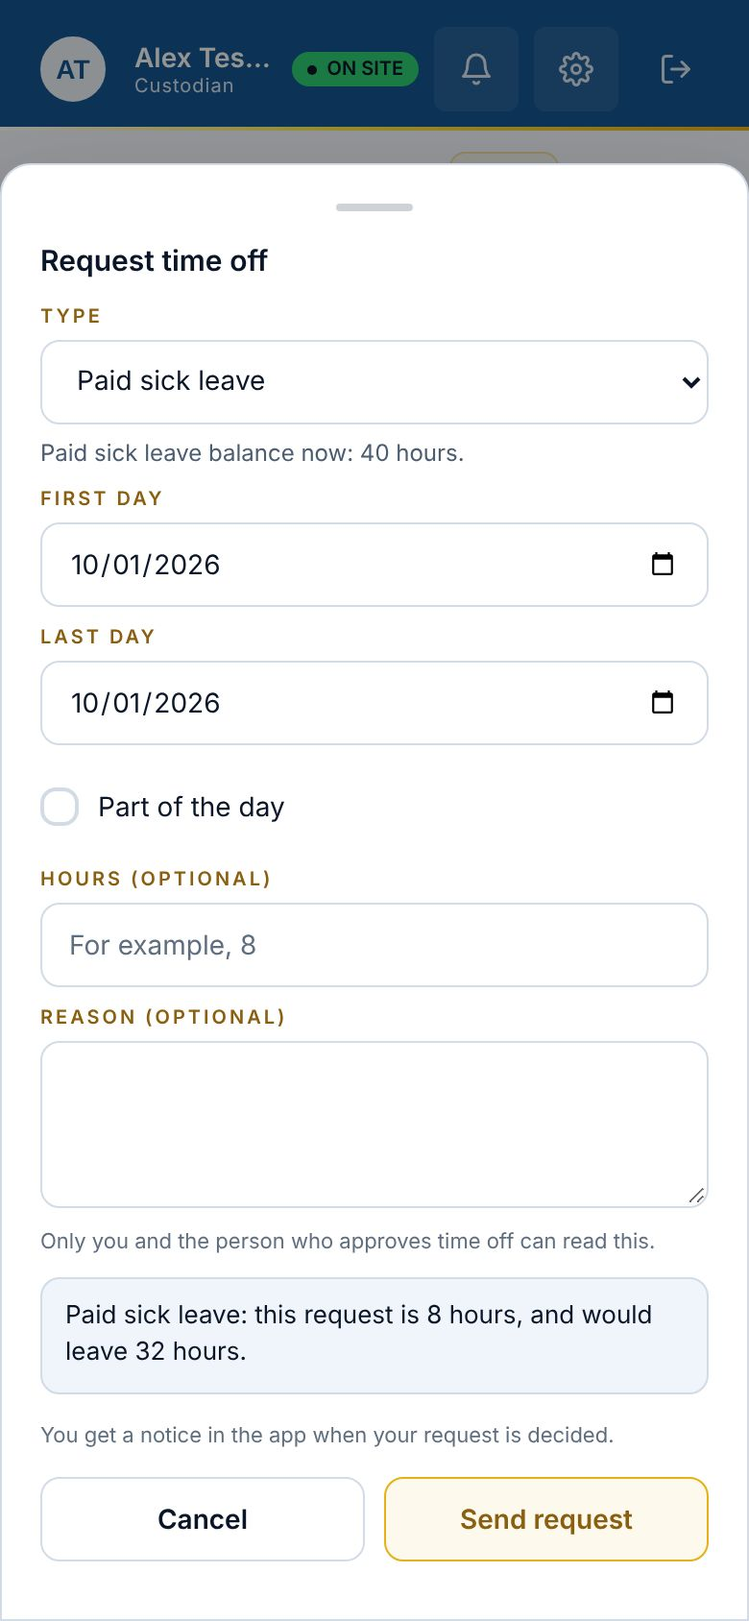
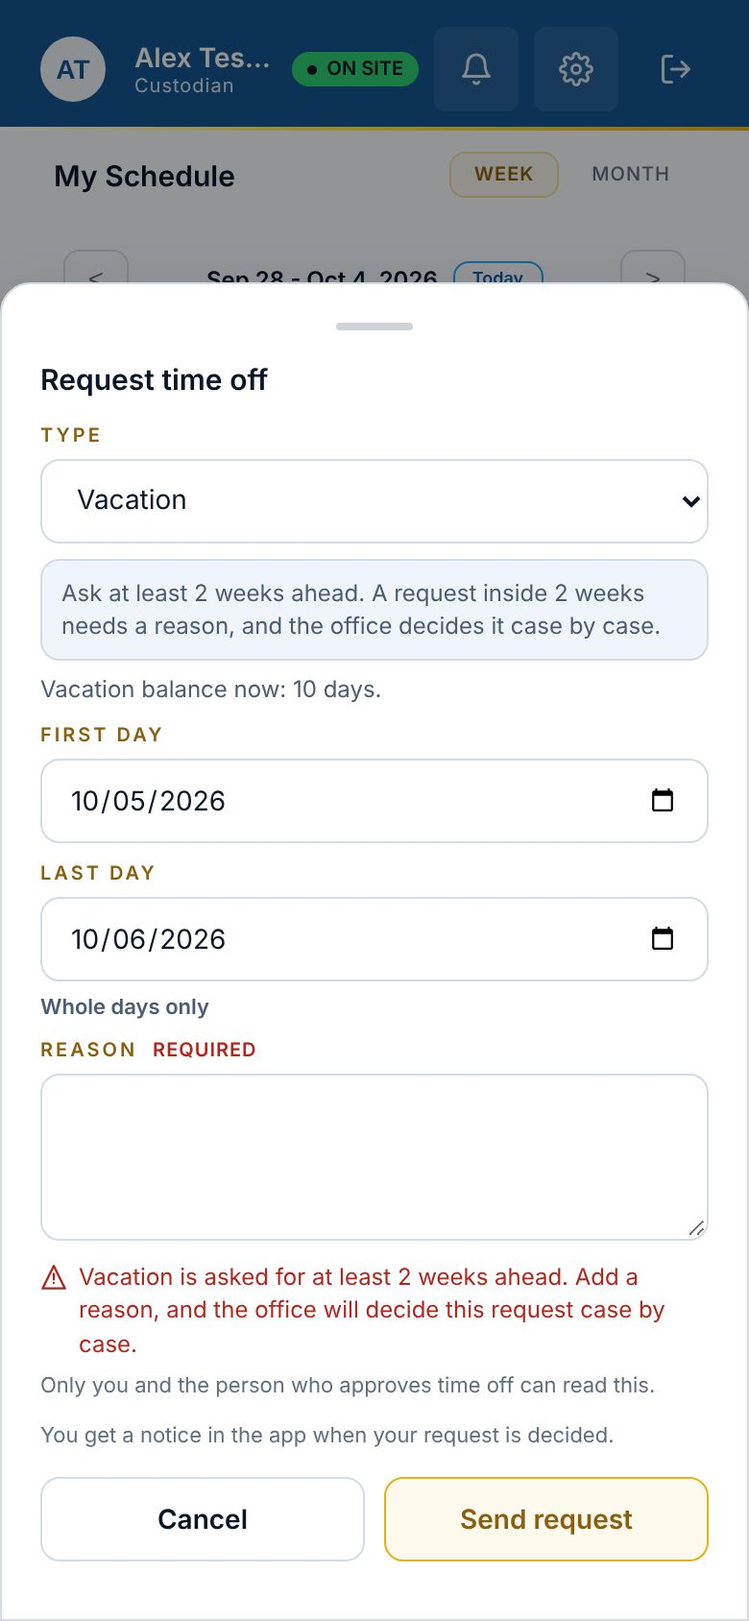
The time off guide entries (part 399, section 3)
Every time off entry in guide/APP-PORTAL.md rewritten to match this
round's screens and OCSA-HR-002 Part 8 as ocsa-api Round 15 (part 395)
holds it, each fact read from the API's code and the screen:

- Request time off (staff portal): the five types and who is offered
  each, whole days for vacation and personal, whole hours for sick, the
  notice for each (vacation 2 weeks, personal 48 hours, sick none and
  never refused for timing) and the reason inside the notice, nothing
  used before day 91, a paid holiday or a day off inside vacation not
  taken, the warnings that never stop a request, and that the office
  approves.
- See or cancel your time off (staff portal): requests of the old kinds
  read as they did, a request asked inside its notice, and a waiting
  request's days.
- See your leave balances (staff portal): who holds which balance, the
  handbook's rules for each, and the ADP line.

Each is Last checked 2026-11-17, with its pictures taken again in
English and Spanish (time-off-request, time-off-leave, time-off-mine,
time-off-cancel, leave-balances). The API's names and words the guide
bolds are in guide/check-allow.txt with their French from ocsa-api's
translation/api_words.csv.

Claude-Session: https://claude.ai/code/session_01NPM9dZ2CLGDhhZwCgeAEos

diff --git a/audit/shots.js b/audit/shots.js
@@ -291,6 +291,18 @@ async function formCard(s, en, es) {
   return s.mark("[data-shots-target]");
 }
 // One of the guide's forms, by its title in each language.
+// Part 399: the first and last day of a time off request, set the way
+// React hears them.
+const offDates = async (s, from, to) => {
+  await s.page.evaluate(([a, b]) => { const boxes = Array.from(document.querySelectorAll('div[style*="z-index: 200"] input[type="date"]')); const set = Object.getOwnPropertyDescriptor(window.HTMLInputElement.prototype, "value").set; [[a, 0], [b, 1]].forEach(([v, i]) => { if (!boxes[i]) return; set.call(boxes[i], v); boxes[i].dispatchEvent(new Event("input", { bubbles: true })); boxes[i].dispatchEvent(new Event("change", { bubbles: true })); }); }, [from, to]);
+  await s.pause(900);
+};
+// Part 399: a vacation asked inside its notice, waiting, and a PTO request
+// filed before part 395, approved. Invented.
+const OFF_SHOT_ROWS = () => [
+  timeOffRow({ id: "to-vac", leaveType: "vacation", leaveTypeLabel: "Vacation", status: "requested", startsOn: "2026-10-08", endsOn: "2026-10-09", insideNotice: true, reason: "A family visit" }),
+  timeOffRow({ id: "to-pto", leaveType: "pto", leaveTypeLabel: "PTO (paid time off)", status: "approved", startsOn: "2026-09-14", endsOn: "2026-09-15", hours: 16, decidedAt: "2026-09-10T15:00:00.000Z" }),
+];
 const guideForm = (name, entry, en, es) => ({ name, entry, o: { signedIn: true, stub: { guideForms: true } }, go: (s) => formCard(s, en, es) });
 
 // A field kit tile, on a supervisor's phone.
@@ -634,42 +646,69 @@ const SHOTS = [
       }
       return s.waitText(s.say("Submit Request"));
     } },
-  { name: "time-off-request", entry: E("Request time off"), o: { signedIn: true, stub: { pto: true } },
+  // Part 399 (API part 395): Vacation chosen for days inside its 2 weeks,
+  // so the form shows the notice, Whole days only, and Reason required
+  // with the API's words under it.
+  { name: "time-off-request", entry: E("Request time off"), o: { signedIn: true },
     go: async (s) => {
       if (!(await s.go("Schedule"))) return false;
       await s.pause(600);
       await s.tap(s.say("Request time off"));
-      if (!(await s.waitFor(() => !!document.querySelector('select option[value="pto"]')))) return false;
-      // Part 369: paid sick leave, so the balance shows under Type.
-      await s.page.selectOption('select:has(option[value="pto"])', "paid_sick");
-      return s.waitFor(() => !!document.querySelector("[data-leave-picked]"));
+      if (!(await s.waitFor(() => !!document.querySelector('select option[value="vacation"]')))) return false;
+      await s.page.selectOption('select:has(option[value="vacation"])', "vacation");
+      await offDates(s, "2026-10-05", "2026-10-06");
+      if (!(await s.waitFor(() => !!document.querySelector('[data-timeoff-error="reason"]')))) return false;
+      await s.page.evaluate(() => document.querySelector('[data-timeoff-unit="day"]').scrollIntoView({ block: "center" }));
+      await s.pause(300);
+      return true;
     } },
-  // Part 369: what the request would leave and the API's warning that it
-  // goes below zero; since part 373 on the form, before Send, from POST
-  // /api/time-off/preview.
-  { name: "time-off-leave", entry: E("Request time off"), o: { signedIn: true, stub: { leaveBalance: 32 } },
+  // Part 369: what the request would leave; since part 373 on the form,
+  // before Send, from POST /api/time-off/preview; since part 399 a
+  // vacation across Thanksgiving week, counted in days, the two paid
+  // holidays and the weekend marked as not taken.
+  { name: "time-off-leave", entry: E("Request time off"), o: { signedIn: true },
     go: async (s) => {
       if (!(await s.go("Schedule"))) return false;
       if (!(await s.waitFor(() => !!document.querySelector("[data-leave-balance]")))) return false;
       await s.tap(s.say("Request time off"));
-      if (!(await s.waitFor(() => !!document.querySelector('select option[value="paid_sick"]')))) return false;
-      await s.page.selectOption('select:has(option[value="paid_sick"])', "paid_sick");
-      await s.page.evaluate(() => { const boxes = Array.from(document.querySelectorAll('div[style*="z-index: 200"] input[type="date"]')); const set = Object.getOwnPropertyDescriptor(window.HTMLInputElement.prototype, "value").set; [["2026-10-05", 0], ["2026-10-09", 1]].forEach(([v, i]) => { if (!boxes[i]) return; set.call(boxes[i], v); boxes[i].dispatchEvent(new Event("input", { bubbles: true })); boxes[i].dispatchEvent(new Event("change", { bubbles: true })); }); });
-      if (!(await s.waitFor(() => !!document.querySelector('[data-leave-preview="1"] [data-leave-warning]')))) return false;
-      await s.page.evaluate(() => document.querySelector('[data-leave-preview="1"]').scrollIntoView({ block: "center" }));
+      if (!(await s.waitFor(() => !!document.querySelector('select option[value="vacation"]')))) return false;
+      await s.page.selectOption('select:has(option[value="vacation"])', "vacation");
+      await offDates(s, "2026-11-23", "2026-11-29");
+      if (!(await s.waitFor(() => !!document.querySelector('[data-leave-preview="1"] [data-leave-from="holiday"]')))) return false;
+      await s.page.evaluate(() => document.querySelector('[data-leave-preview="1"]').scrollIntoView({ block: "end" }));
       await s.pause(300);
       return true;
     } },
+  // Since part 399 a full-time person's three balances, two in days, and
+  // the ADP line under them.
   { name: "leave-balances", entry: E("See your leave balances"), o: { signedIn: true },
-    go: async (s) => { if (!(await s.go("Schedule"))) return false; if (!(await s.waitFor(() => !!document.querySelector('[data-leave-balance="paid_sick"]')))) return false; await s.show(s.say("My time off")); return true; } },
-  { name: "time-off-mine", entry: E("See or cancel your time off"), o: { signedIn: true, stub: { myTimeOff: [timeOffRow({ id: "to-one", status: "requested" })] } },
-    go: async (s) => { if (!(await s.go("Schedule"))) return false; if (!(await s.waitText(s.say("My time off")))) return false; await s.show(s.say("My time off")); return true; } },
-  { name: "time-off-cancel", entry: E("See or cancel your time off"), o: { signedIn: true, stub: { myTimeOff: [timeOffRow({ id: "to-one", status: "requested" })] } },
+    go: async (s) => {
+      if (!(await s.go("Schedule"))) return false;
+      if (!(await s.waitFor(() => !!document.querySelector("[data-leave-adp]")))) return false;
+      // The ADP line at the foot of the screen, clear of the bottom bar.
+      await s.page.evaluate(() => { document.querySelector("[data-leave-adp]").scrollIntoView({ block: "end" }); window.scrollBy(0, 130); });
+      await s.pause(400);
+      return true;
+    } },
+  // Since part 399 a vacation asked inside its notice beside a PTO
+  // request filed before part 395.
+  { name: "time-off-mine", entry: E("See or cancel your time off"), o: { signedIn: true, stub: { myTimeOff: OFF_SHOT_ROWS() } },
+    go: async (s) => {
+      if (!(await s.go("Schedule"))) return false;
+      if (!(await s.waitText(s.say("My time off")))) return false;
+      if (!(await s.waitFor(() => !!document.querySelector('[data-timeoff-inside="row"]') && !!document.querySelector("[data-leave-adp]")))) return false;
+      // The foot of the list, so the ADP line and both requests show.
+      await s.page.evaluate(() => window.scrollTo(0, document.scrollingElement.scrollHeight));
+      await s.pause(400);
+      return true;
+    } },
+  { name: "time-off-cancel", entry: E("See or cancel your time off"), o: { signedIn: true, stub: { myTimeOff: OFF_SHOT_ROWS() } },
     go: async (s) => {
       if (!(await s.go("Schedule"))) return false;
       if (!(await s.waitText(s.say("My time off")))) return false;
       await s.page.evaluate(([heading]) => { const h = Array.from(document.querySelectorAll(".sp-content div")).find(d => d.textContent.trim() === heading); const b = h && h.parentElement.querySelector("button"); if (b) b.click(); }, [s.say("My time off")]);
       await s.pause(900);
+      if (!(await s.waitFor(() => !!document.querySelector('[data-timeoff-inside="sheet"]')))) return false;
       return s.waitText(s.say("Cancel request"));
     } },
   { name: "pickup-available", entry: E("Pick up an open shift"), o: { signedIn: true },

diff --git a/guide/APP-PORTAL.md b/guide/APP-PORTAL.md
@@ -510,29 +510,33 @@ Last checked: 2026-11-10
 Who can do this: anyone signed in
 1. Tap **Schedule** (**Horario**) (**Planning**) on the bottom bar.
 2. Tap **Request time off** (**Solicitar tiempo libre**) (**Demander un congé**).
-3. Under **Type** (**Tipo**) (**Type**), choose the kind of time off, such as **PTO (paid time off)** (**PTO (tiempo libre pagado)**) (**PTO (congé payé)**) where the office offers it. For a kind your policy keeps a balance of, such as paid sick leave, the line under it says how much you have, as **{kind} balance now: {hours}.** (**Saldo de {kind} ahora: {hours}.**) (**Solde de {kind} maintenant : {hours}.**), and **You can use it from {date}.** (**Lo puede usar a partir del {date}.**) (**Vous pouvez l'utiliser à partir du {date}.**) while you are still in the waiting period after your hire date.
-4. Set **First day** (**Primer día**) (**Premier jour**) and **Last day** (**Último día**) (**Dernier jour**). For part of one day, leave both days the same, turn on **Part of the day** (**Parte del día**) (**Une partie de la journée**), and set **From** (**Desde**) (**De**) and **To** (**Hasta**) (**À**).
-5. Fill in **Hours (optional)** (**Horas (opcional)**) (**Heures (facultatif)**) and **Reason (optional)** (**Motivo (opcional)**) (**Raison (facultatif)**) if you want. Only you and the person who approves time off can read the reason.
-6. Before you send it, once the type and both days are set, the form says what the request would leave for a kind with a balance, as **{kind}: this request is {hours}, and would leave {left}.** (**{kind}: esta solicitud es de {hours} y dejaría {left}.**) (**{kind} : cette demande est de {hours} et laisserait {left}.**), and it changes as you change the days, the times or the hours. When it would take the balance below zero, or falls in the waiting period, OCSA's own warning shows under it, with **You can still send it. The person who approves time off decides.** (**Igual puede enviarla. La persona que aprueba el tiempo libre decide.**) (**Vous pouvez quand même l'envoyer. La personne qui approuve les congés décide.**) When OCSA would turn the request away, such as for days you already asked for, its reason shows there too, before you send.
-7. Tap **Send request** (**Enviar solicitud**) (**Envoyer la demande**). For a kind with a balance, the request opens as soon as it is sent and says the same, with **Your request is sent. The person who approves time off decides.** (**Su solicitud se envió. La persona que aprueba el tiempo libre decide.**) (**Votre demande est envoyée. La personne qui approuve les congés décide.**) under a warning. The request is sent either way.
-8. You get a notice in the app when it is decided.
-Words people use for this: schedule time off, book time off, ask for a day off, take a day off, vacation, PTO, personal day, sick day, leave, how many sick hours will i have left, what will i have left, before i send, waiting period, below zero.
-If it does not work: if Schedule shows **Time off did not load.** (**El tiempo libre no se cargó.**) (**Les congés ne se sont pas chargés.**) where **Request time off** (**Solicitar tiempo libre**) (**Demander un congé**) would be, check your signal and tap **Try again** (**Intentar de nuevo**) (**Réessayer**) under it. Time off can start at most 30 days ago and at most one year ahead, and it cannot overlap time off you already asked for.
+3. Under **Type** (**Tipo**) (**Type**), choose one of the five kinds of time off the handbook (OCSA-HR-002 Part 8) sets: **Vacation** (**Vacaciones**) (**Vacances**), **Paid sick leave** (**Licencia por enfermedad pagada**) (**Congé maladie payé**), **Personal day** (**Día personal**) (**Journée personnelle**), **Bereavement** (**Duelo**) (**Deuil**) and **Unpaid time off** (**Tiempo libre sin pago**) (**Congé sans solde**). Sick, bereavement and unpaid time off are offered to everyone. Vacation and personal days are offered to full-time staff at a site that is not a union site. Anyone else reads why under the list, as **Not offered to you: {types}.** (**No se le ofrece: {types}.**) (**Ne vous est pas proposé : {types}.**) and OCSA's reason, such as **Vacation and personal days are for full-time staff.** (**Las vacaciones y los días personales son para el personal de tiempo completo.**) (**Les vacances et les journées personnelles sont réservées au personnel à temps plein.**) Someone whose employment class is not on file yet reads that the office has to add it. PTO, bereavement and personal, jury duty and military leave are no longer offered for a new request.
+4. The kind you choose decides what the form asks. Vacation and personal days are taken in whole days: the form says **Whole days only** (**Solo días completos**) (**Journées entières seulement**) and asks for no part of the day and no hours. Sick time is taken in whole hours: **In whole hours** (**En horas completas**) (**En heures entières**) shows beside **Hours (optional)** (**Horas (opcional)**) (**Heures (facultatif)**). Bereavement and unpaid time off take any hours or part of a day.
+5. Under the kind, its notice shows. Ask for vacation at least 2 weeks before the first day, and for a personal day at least 48 hours before the day starts (your first shift that day, else midnight). Sick time has no notice to meet: tell your supervisor as soon as you can, and when you know ahead, ask at least 4 hours before your shift. A sick request is never refused for its timing, and you never have to find someone to cover.
+6. For a kind your policy keeps a balance of, the line under it says how much you have, as **{kind} balance now: {hours}.** (**Saldo de {kind} ahora: {hours}.**) (**Solde de {kind} maintenant : {hours}.**), in days for vacation and personal days and in hours for sick leave. Nothing can be used before day 91: in the first 90 days after your hire date it says **You can use it from {date}.** (**Lo puede usar a partir del {date}.**) (**Vous pouvez l'utiliser à partir du {date}.**)
+7. Set **First day** (**Primer día**) (**Premier jour**) and **Last day** (**Último día**) (**Dernier jour**). For part of one day of sick, bereavement or unpaid time off, leave both days the same, turn on **Part of the day** (**Parte del día**) (**Une partie de la journée**), and set **From** (**Desde**) (**De**) and **To** (**Hasta**) (**À**). Fill in **Hours (optional)** (**Horas (opcional)**) (**Heures (facultatif)**) if you want.
+8. **Reason (optional)** (**Motivo (opcional)**) (**Raison (facultatif)**) is yours to fill in, and only you and the person who approves time off can read it. Vacation inside 2 weeks, or a personal day inside 48 hours, needs a reason: the label turns to **Reason** (**Motivo**) (**Raison**) with **Required** (**Obligatorio**) (**Obligatoire**), and OCSA's words show under it, such as **Vacation is asked for at least 2 weeks ahead. Add a reason, and the office will decide this request case by case.** (**Las vacaciones se piden con al menos 2 semanas de anticipación. Agregue un motivo y la oficina decidirá esta solicitud caso por caso.**) (**Les vacances se demandent au moins 2 semaines à l'avance. Ajoutez un motif et le bureau décidera de cette demande au cas par cas.**) Add the reason, and the office decides the request case by case.
+9. Before you send it, once the kind and both days are set, the form says what the request would leave, as **{kind}: this request is {hours}, and would leave {left}.** (**{kind}: esta solicitud es de {hours} y dejaría {left}.**) (**{kind} : cette demande est de {hours} et laisserait {left}.**), and it changes as you change the days, the times or the hours. Vacation and personal days count a day at a time, each day listed: a paid holiday inside your vacation, such as Thanksgiving and the day after, reads **Paid holiday, not taken** (**Feriado pagado, no se descuenta**) (**Jour férié payé, non décompté**), and a Saturday or Sunday with no shift reads **Day off, not taken** (**Día libre, no se descuenta**) (**Jour de repos, non décompté**). Neither is taken from your balance.
+10. When the request would take the balance below zero, falls in the first 90 days, or would take sick hours used in the year past 40 for part-time staff, OCSA's warning shows under it, with **You can still send it. The person who approves time off decides.** (**Igual puede enviarla. La persona que aprueba el tiempo libre decide.**) (**Vous pouvez quand même l'envoyer. La personne qui approuve les congés décide.**) A warning never stops the request. When OCSA would turn the request away, such as for hours that are not whole for sick time, or for days you already asked for, its words show before you send, under the field they are about.
+11. Tap **Send request** (**Enviar solicitud**) (**Envoyer la demande**). A request of a kind with a balance, or one asked inside its notice, opens as soon as it is sent and says the same, with **Your request is sent. The person who approves time off decides.** (**Su solicitud se envió. La persona que aprueba el tiempo libre decide.**) (**Votre demande est envoyée. La personne qui approuve les congés décide.**) under a warning. The office approves or denies every request, and you get a notice in the app when it is decided.
+If it does not work: if Schedule shows **Time off did not load.** (**El tiempo libre no se cargó.**) (**Les congés ne se sont pas chargés.**) where **Request time off** (**Solicitar tiempo libre**) (**Demander un congé**) would be, check your signal and tap **Try again** (**Intentar de nuevo**) (**Réessayer**) under it. Time off can start at most 30 days ago and at most one year ahead, and it cannot overlap time off you already asked for. If Vacation or Personal day is not in the list and the reason under it is wrong, such as your employment class, ask the office to correct it.
+Words people use for this: schedule time off, book time off, ask for a day off, take a day off, vacation, personal day, sick day, sick hours, bereavement, unpaid, PTO, leave, two weeks notice, 48 hours notice, why can't i pick vacation, not offered to me, whole days, whole hours, holiday in my vacation, thanksgiving, how many days will i have left, before i send, waiting period, below zero, pedir vacaciones, día personal, demander des congés.
 Picture: time-off-request
 Picture: time-off-leave
-Last checked: 2026-11-09
+Last checked: 2026-11-17
 
 ## See or cancel your time off (staff portal)
 Who can do this: anyone who has asked for time off
 1. Tap **Schedule** (**Horario**) (**Planning**) on the bottom bar.
-2. Look under **My time off** (**Mi tiempo libre**) (**Mes congés**). Each request shows its type, its dates and whether it is Requested, Approved, Denied or Cancelled, with any note from the decision.
-3. Tap a request to see the reason, the note and the shifts you have on those days. Once approved, a request of a kind with a balance says what it took, as **{kind}: this time off took {hours}.** (**{kind}: este tiempo libre usó {hours}.**) (**{kind} : ce congé a utilisé {hours}.**), with **{kind} balance now: {hours}.** (**Saldo de {kind} ahora: {hours}.**) (**Solde de {kind} maintenant : {hours}.**) When the office takes an approval back, you get a notice in the app, and the request says **{kind}: {hours} went back when the office took back the approval.** (**{kind}: se devolvieron {hours} cuando la oficina retiró la aprobación.**) (**{kind} : {hours} ont été rendues quand le bureau a retiré l'accord.**) A notice about a request opens it here.
-4. While it still says Requested, tap **Cancel request** (**Cancelar solicitud**) (**Annuler la demande**) and confirm when it asks **Cancel this time off request?** (**¿Cancelar esta solicitud de tiempo libre?**) (**Annuler cette demande de congé ?**), or tap **Keep it** (**Conservarla**) (**La garder**) to leave it alone.
-Words people use for this: check my time off, did my day off get approved, cancel my vacation, cancel my leave, my approved time off was taken back, hours given back.
+2. Look under **My time off** (**Mi tiempo libre**) (**Mes congés**). Each request shows its kind, its dates and whether it is Requested, Approved, Denied or Cancelled, with any note from the decision. A request filed as a kind that is no longer offered keeps its kind and reads as it did, such as **PTO (paid time off)** (**PTO (tiempo libre pagado)**) (**PTO (congé payé)**) or **Bereavement and personal** (**Duelo y asuntos personales**) (**Deuil et raisons personnelles**).
+3. Vacation or a personal day asked inside its notice (2 weeks for vacation, 48 hours for a personal day) says **Asked with less notice than the policy asks. The office decides it case by case.** (**Se pidió con menos aviso del que pide la política. La oficina la decide caso por caso.**) (**Demandée avec moins de préavis que la politique ne le demande. Le bureau la décide au cas par cas.**)
+4. Tap a request to see the reason, the note and the shifts you have on those days. While it waits, a vacation or personal day request says its days and what it would leave, each day listed, with a paid holiday and a weekend day with no shift marked as not taken. Once approved, a request of a kind with a balance says what it took, as **{kind}: this time off took {hours}.** (**{kind}: este tiempo libre usó {hours}.**) (**{kind} : ce congé a utilisé {hours}.**), with **{kind} balance now: {hours}.** (**Saldo de {kind} ahora: {hours}.**) (**Solde de {kind} maintenant : {hours}.**) When the office takes an approval back, you get a notice in the app, and the request says **{kind}: {hours} went back when the office took back the approval.** (**{kind}: se devolvieron {hours} cuando la oficina retiró la aprobación.**) (**{kind} : {hours} ont été rendues quand le bureau a retiré l'accord.**) A notice about a request opens it here.
+5. While it still says Requested, tap **Cancel request** (**Cancelar solicitud**) (**Annuler la demande**) and confirm when it asks **Cancel this time off request?** (**¿Cancelar esta solicitud de tiempo libre?**) (**Annuler cette demande de congé ?**), or tap **Keep it** (**Conservarla**) (**La garder**) to leave it alone.
+Words people use for this: check my time off, did my day off get approved, did my vacation get approved, cancel my vacation, cancel my leave, my approved time off was taken back, hours given back, my old pto request, case by case, less notice, mis vacaciones, mes congés.
 If it does not work: **Your time off requests did not load.** (**Sus solicitudes de tiempo libre no se cargaron.**) (**Vos demandes de congé ne se sont pas chargées.**) under **My time off** (**Mi tiempo libre**) (**Mes congés**) means your requests could not be read, never that you have none: tap **Try again** (**Intentar de nuevo**) (**Réessayer**) under it. A request that is already approved or denied cannot be cancelled. Ask the HR Manager.
 Picture: time-off-mine
 Picture: time-off-cancel
-Last checked: 2026-10-20
+Last checked: 2026-11-17
 
 ## What the daily service log asks: the shift, the areas and the tasks (staff portal)
 Who can do this: anyone filling in the daily service log, usually the crew lead at the end of the shift
@@ -1577,14 +1581,15 @@ Last checked: 2026-10-20
 ## See your leave balances (staff portal)
 Who can do this: anyone signed in whose time off policy keeps a balance
 1. Tap **Schedule** (**Horario**) (**Planning**) on the bottom bar.
-2. Under **My time off** (**Mi tiempo libre**) (**Mes congés**), **Leave balances** (**Saldos de tiempo libre**) (**Soldes de congés**) lists each kind of time off your policy keeps a balance of, such as paid sick leave, with the hours you have and the same in days, such as 40 hours and 5 days.
-3. Under each one, a line from your policy says how it works, in OCSA's words, for example that 40 hours come each January 1 and on the hire date, can be used 90 days after the hire date, and do not carry over to the next year.
-4. While you are still in the waiting period after your hire date, it says **You can use it from {date}.** (**Lo puede usar a partir del {date}.**) (**Vous pouvez l'utiliser à partir du {date}.**)
-5. A kind your policy keeps no balance of shows nothing here. Ask the office about it.
-If it does not work: **Your leave balances did not load.** (**Sus saldos de tiempo libre no se cargaron.**) (**Vos soldes de congés ne se sont pas chargés.**) means they could not be read: check your signal and tap **Try again** (**Intentar de nuevo**) (**Réessayer**). No **Leave balances** (**Saldos de tiempo libre**) (**Soldes de congés**) at all means your policy keeps no balance for you, or the office has not set one up yet.
-Words people use for this: how many sick hours do i have, sick time balance, my balance, leave balance, how much time off do i have, paid sick leave, saldo de horas por enfermedad, cuántas horas me quedan, solde de congés.
+2. Under **My time off** (**Mi tiempo libre**) (**Mes congés**), **Leave balances** (**Saldos de tiempo libre**) (**Soldes de congés**) lists each kind of time off your policy keeps a balance of. Full-time staff see **Vacation** (**Vacaciones**) (**Vacances**), **Paid sick leave** (**Licencia por enfermedad pagada**) (**Congé maladie payé**) and **Personal day** (**Día personal**) (**Journée personnelle**). Part-time staff and staff with no employment class on file see paid sick leave. Staff at a union site follow their union agreement, and see paid sick leave the same way until one is attached. Supplemental staff have no balance. Vacation and personal days show in days, such as 10 days; sick leave shows its hours and the same in days, such as 40 hours and 5 days.
+3. Under each one, a line from the handbook's policy (OCSA-HR-002 Part 8) says how it works for you, in OCSA's words. Vacation comes in full on your work anniversary: 5 days from your first, 10 from your third and 15 from your fifth, then that many each January 1. Personal days are 3 on your first work anniversary, then 3 each January 1. Full-time sick leave is 40 hours each January 1, and in your year of hire 1 hour for every 40 hours worked, up to 40. For full-time staff, nothing carries over to the next year. Sick leave for part-time staff, staff with no class on file and staff at a union site is 1 hour for every 40 hours worked, at most 40 earned a year, and unused hours carry over; using more than 40 in a year is warned, never refused. Hours worked come from the payroll system's hours file, and the line under the balance says how far they have posted.
+4. Nothing can be used before day 91: in the first 90 days after your hire date it says **You can use it from {date}.** (**Lo puede usar a partir del {date}.**) (**Vous pouvez l'utiliser à partir du {date}.**)
+5. Under the balances, **This is the app's figure. ADP self-service holds the official balance.** (**Esta es la cifra de la aplicación. El autoservicio de ADP tiene el saldo oficial.**) (**Ceci est le chiffre de l'application. Le libre-service ADP détient le solde officiel.**) ADP holds your official balance.
+6. A kind your policy keeps no balance of shows nothing here. Ask the office about it.
+If it does not work: **Your leave balances did not load.** (**Sus saldos de tiempo libre no se cargaron.**) (**Vos soldes de congés ne se sont pas chargés.**) means they could not be read: check your signal and tap **Try again** (**Intentar de nuevo**) (**Réessayer**). No **Leave balances** (**Saldos de tiempo libre**) (**Soldes de congés**) at all means your policy keeps no balance for you, or the office has not set one up yet. When a figure here differs from ADP, ADP's is the official one.
+Words people use for this: how many sick hours do i have, sick time balance, how many vacation days do i have, personal days left, my balance, leave balance, how much time off do i have, paid sick leave, adp balance, official balance, saldo de horas por enfermedad, cuántos días de vacaciones tengo, cuántas horas me quedan, solde de congés.
 Picture: leave-balances
-Last checked: 2026-10-20
+Last checked: 2026-11-17
 
 ## Fill out an inspection (staff portal)
 Who can do this: the person an inspection is assigned to, and anyone who starts one at a site
